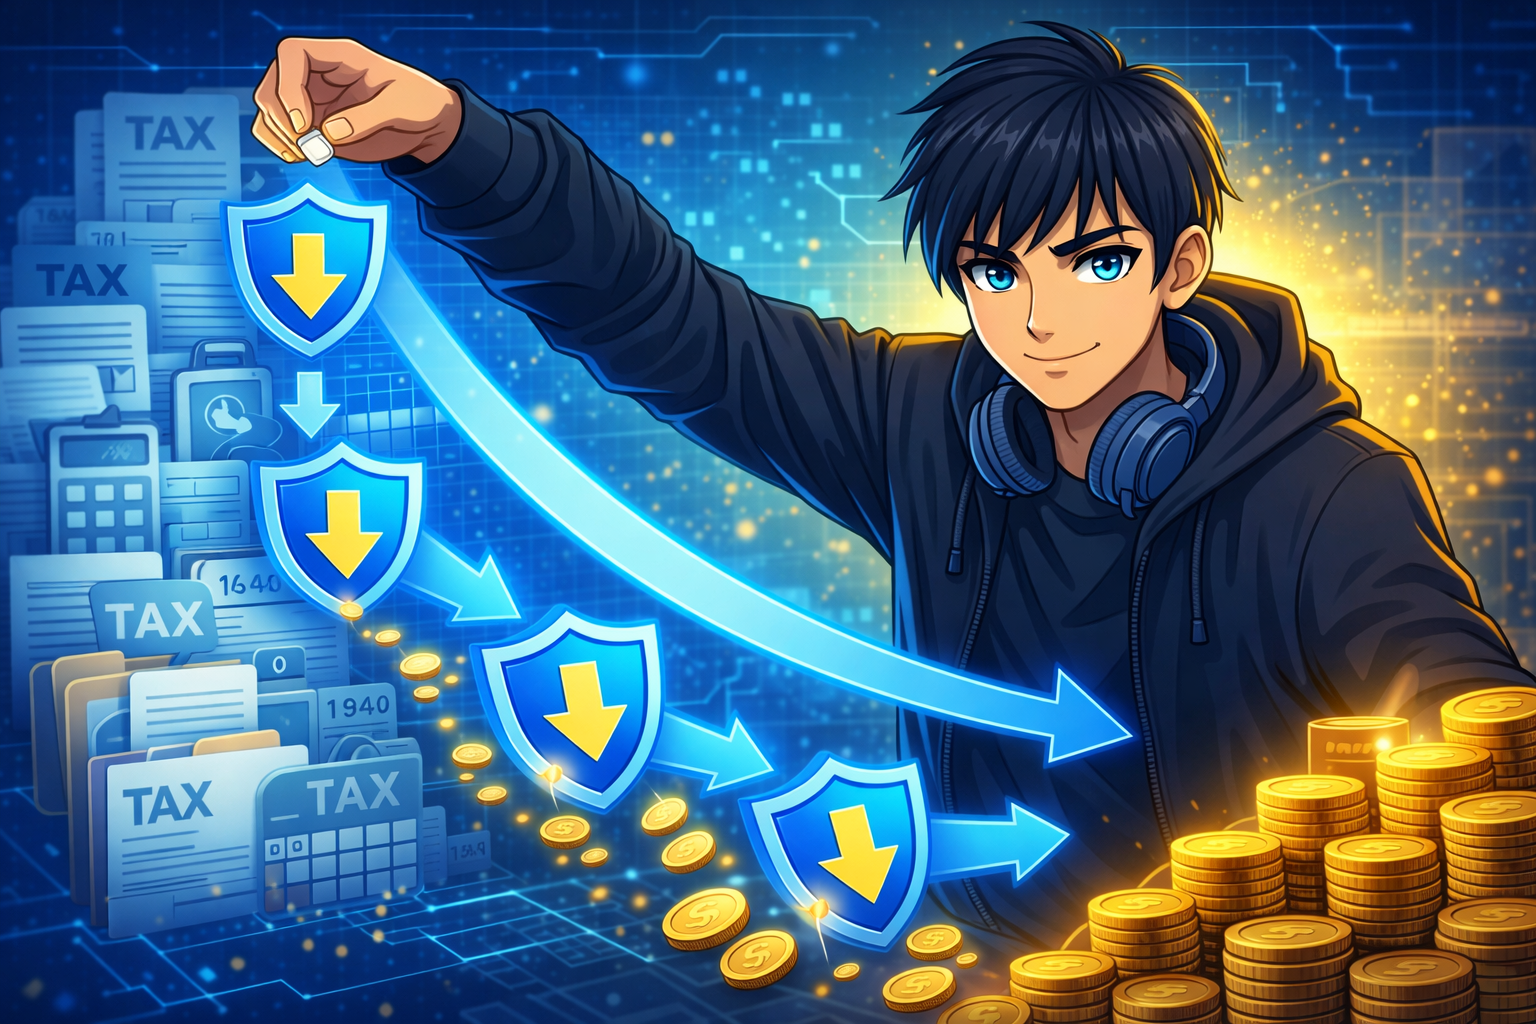
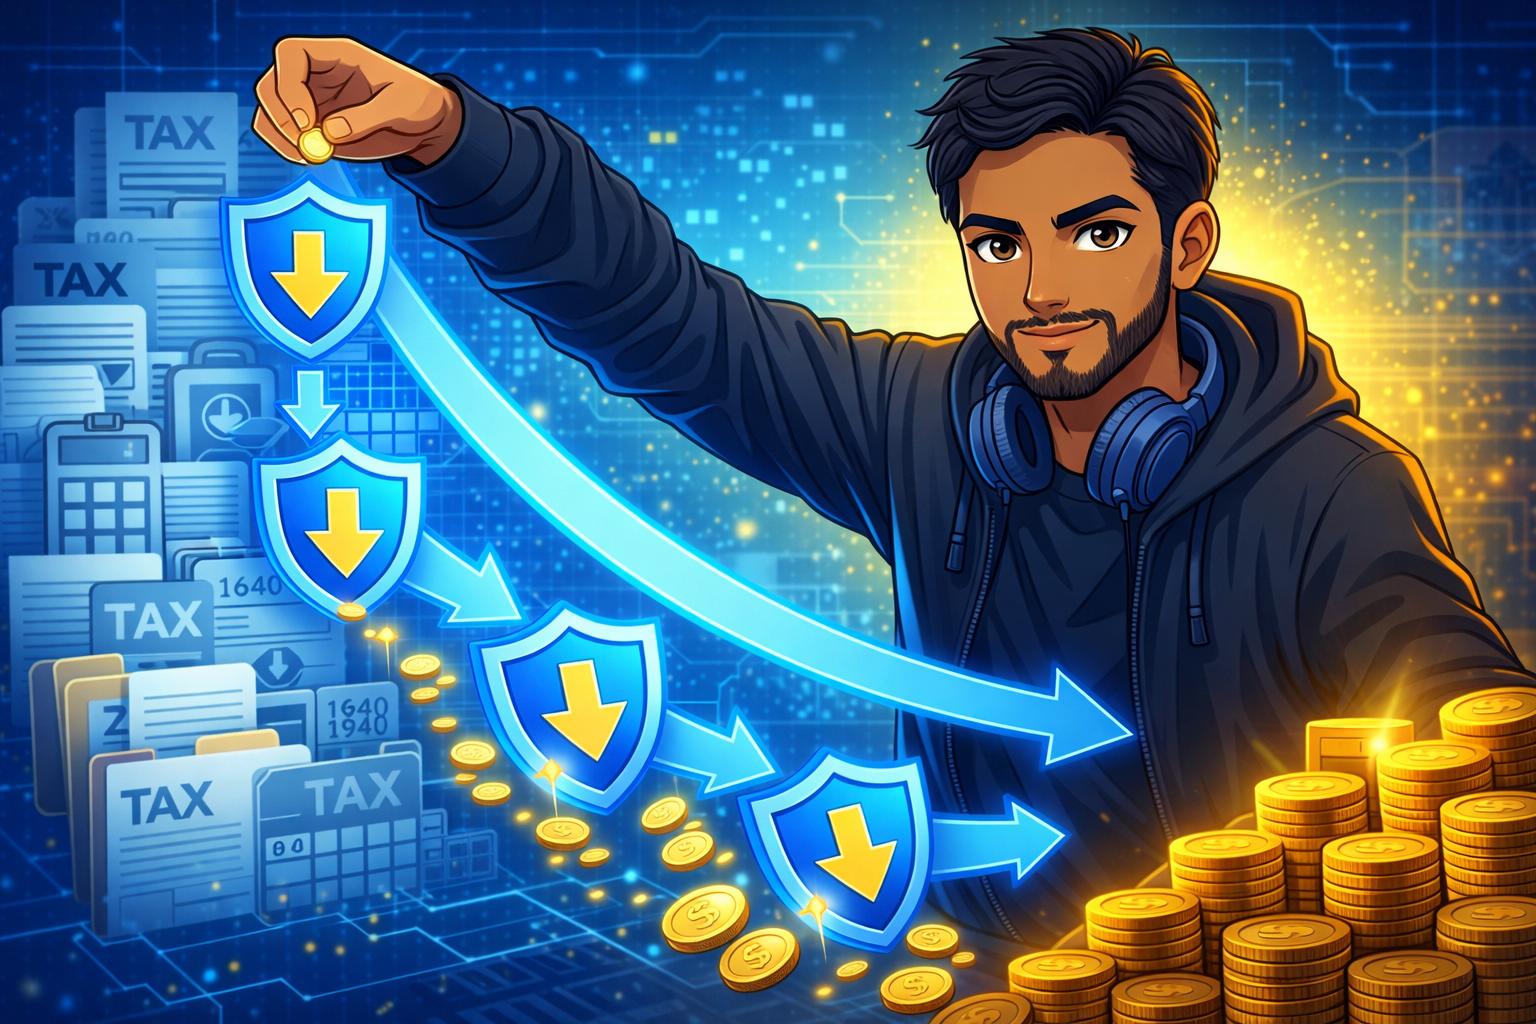
Research Center: Implemented Tax Expense Reduction

diff --git a/mobile/src/screens/FinancialStatementsScreen.tsx b/mobile/src/screens/FinancialStatementsScreen.tsx
@@ -7,7 +7,7 @@ import { getCurrentBalance } from '../store/slices/balanceSlice';
 import { useFetchFinanceTemplatesQuery, useFetchUserFinanceTiersQuery } from '../store/api/userFinanceApi';
 import { useGetRentalHousingIncomeQuery } from '../store/api/rentalHousingApi';
 import { useFetchBalanceQuery } from '../store/api/balanceApi';
-import { useGetUserFeaturesQuery } from '../store/api/researchFeaturesApi';
+import { useGetUserFeaturesQuery, useGetExpenseModifiersQuery } from '../store/api/researchFeaturesApi';
 import { useTrackFinancialStatementViewMutation } from '../store/api/userGuideApi';
 import { useTheme } from '../context/ThemeContext';
 import { useThemeColors } from '../hooks/useThemeColors';
@@ -42,20 +42,30 @@ export function FinancialStatementsScreen({ onClose }: Props): React.JSX.Element
   const { data: templatesData } = useFetchFinanceTemplatesQuery();
   const { data: userTiersData } = useFetchUserFinanceTiersQuery();
   const { data: rentalHousingData, error: rentalHousingError, isLoading: rentalHousingLoading } = useGetRentalHousingIncomeQuery();
-  const { data: balanceData } = useFetchBalanceQuery();
+  const { data: balanceData } = useFetchBalanceQuery(undefined, { refetchOnFocus: true });
+  const { data: expenseModifiers } = useGetExpenseModifiersQuery(undefined, { refetchOnFocus: true });
   const { data: cashFlowFeatures } = useGetUserFeaturesQuery('cash-flow');
   const currentCash = useAppSelector(getCurrentBalance);
   const ratePerSecondFromState = useAppSelector(state => state.balance.ratePerSecond);
   // Use balanceData from query if available (fresh data), otherwise fall back to Redux state
   const ratePerSecond = balanceData?.ratePerSecond ?? ratePerSecondFromState;
-  // Total insurance expense reduction from unlocked research (must match server researchFeatureUtils INSURANCE_REDUCTION_FEATURES)
+  // Expense reductions: prefer dedicated expense-modifiers API (single source of truth). Fall back to balance, then research features.
   const insuranceReductionTotal = useMemo(() => {
+    if (typeof expenseModifiers?.insuranceReduction === 'number') return expenseModifiers.insuranceReduction;
+    if (typeof balanceData?.insuranceReduction === 'number') return balanceData.insuranceReduction;
     if (!cashFlowFeatures) return 0;
     let total = 0;
     if (cashFlowFeatures.some((f: any) => (f.id === 'reduce-insurance-01') && f.isUnlocked)) total += 0.01;
     if (cashFlowFeatures.some((f: any) => (f.id === 'reduce-insurance-02') && f.isUnlocked)) total += 0.02;
     return total;
-  }, [cashFlowFeatures]);
+  }, [expenseModifiers?.insuranceReduction, balanceData?.insuranceReduction, cashFlowFeatures]);
+  const taxReductionTotal = useMemo(() => {
+    if (typeof expenseModifiers?.taxReduction === 'number') return expenseModifiers.taxReduction;
+    if (typeof balanceData?.taxReduction === 'number') return balanceData.taxReduction;
+    if (!cashFlowFeatures) return 0;
+    if (cashFlowFeatures.some((f: any) => (f.id === 'reduce-tax-expense-02' || f.id === 'reduce-expenses') && f.isUnlocked)) return 0.02;
+    return 0;
+  }, [expenseModifiers?.taxReduction, balanceData?.taxReduction, cashFlowFeatures]);
   const { themeMode } = useTheme();
   const colors = useThemeColors();
   
@@ -95,20 +105,32 @@ export function FinancialStatementsScreen({ onClose }: Props): React.JSX.Element
       const insuranceBase = baseIncomeStatement['Insurance'] ?? -0.50;
       effectiveIncomeStatement['Insurance'] = insuranceBase + insuranceReductionTotal;
     }
+    // Tax/Taxes: apply unlocked reduction research (reduce-tax-expense-02 = $0.02). Match template key case-insensitively.
+    const taxKey = Object.keys(baseIncomeStatement).find(
+      k => k.trim().toLowerCase() === 'taxes' || k.trim().toLowerCase() === 'tax'
+    ) ?? null;
+    const hasTaxInTemplate = taxKey !== null;
+    if (hasTaxInTemplate && taxKey) {
+      const taxBase = baseIncomeStatement[taxKey] ?? -0.60;
+      effectiveIncomeStatement[taxKey] = taxBase + taxReductionTotal;
+    }
     
     const incomeStatementEntries = Object.entries(effectiveIncomeStatement);
     
-    // Gross Income: subtract insurance reduction from display when template has Insurance,
-    // so we don't double-count (savings shown as reduced expense). If template lacks Insurance,
-    // show full incomeRateBonus.
-    const effectiveIncomeRateBonus = hasInsuranceInTemplate && insuranceReductionTotal > 0
-      ? Math.max(0, incomeRateBonus - insuranceReductionTotal)
-      : incomeRateBonus;
+    // Gross Income: subtract insurance and tax reduction from display when template has those lines,
+    // so we don't double-count (savings shown as reduced expense). If template lacks them, show full incomeRateBonus.
+    let effectiveIncomeRateBonus = incomeRateBonus;
+    if (hasInsuranceInTemplate && insuranceReductionTotal > 0) {
+      effectiveIncomeRateBonus = Math.max(0, effectiveIncomeRateBonus - insuranceReductionTotal);
+    }
+    if (taxReductionTotal > 0) {
+      effectiveIncomeRateBonus = Math.max(0, effectiveIncomeRateBonus - taxReductionTotal);
+    }
     const baseGrossIncome = 12.00;
     const grossIncome = baseGrossIncome + effectiveIncomeRateBonus;
     
     // Calculate expenses (negative values only, excluding totals)
-    const expenseEntries = incomeStatementEntries.filter(([k, v]) => {
+    const rawExpenseEntries = incomeStatementEntries.filter(([k, v]) => {
       const num = Number(v);
       const keyLower = k.toLowerCase().trim();
       if (k === 'Gross Income' || k === 'Gross income' || k === 'gross income' ||
@@ -118,6 +140,14 @@ export function FinancialStatementsScreen({ onClose }: Props): React.JSX.Element
         return false;
       }
       return num < 0;
+    });
+    // Apply tax reduction to any expense line whose label contains "tax" (bulletproof: no dependency on template key)
+    const expenseEntries = rawExpenseEntries.map(([k, v]) => {
+      const num = Number(v);
+      if (num < 0 && /tax/.test(String(k).trim().toLowerCase())) {
+        return [k, num + taxReductionTotal] as [string, number];
+      }
+      return [k, v] as [string, number];
     });
     
     const totalExpenses = expenseEntries.reduce((sum, [, v]) => {
@@ -143,7 +173,7 @@ export function FinancialStatementsScreen({ onClose }: Props): React.JSX.Element
       passiveIncome,
       netCashFlow
     };
-  }, [merged, incomeRateBonus, insuranceReductionTotal, rentalHousingData?.totalIncomePerSecond]);
+  }, [merged, incomeRateBonus, insuranceReductionTotal, taxReductionTotal, rentalHousingData?.totalIncomePerSecond]);
 
   const getStyles = () => ({
     container: {

diff --git a/mobile/src/store/api/researchFeaturesApi.ts b/mobile/src/store/api/researchFeaturesApi.ts
@@ -44,8 +44,12 @@ export const researchFeaturesApi = createApi({
       return headers;
     },
   }),
-  tagTypes: ['ResearchFeature', 'ResearchFeatures'],
+  tagTypes: ['ResearchFeature', 'ResearchFeatures', 'ExpenseModifiers'],
   endpoints: (builder) => ({
+    getExpenseModifiers: builder.query<{ insuranceReduction: number; taxReduction: number }, void>({
+      query: () => '/expense-modifiers',
+      providesTags: ['ExpenseModifiers'],
+    }),
     getFeatureStatus: builder.query<ResearchFeatureStatus, string>({
       query: (featureId) => `/feature-status/${featureId}`,
       transformResponse: (response: { success: boolean; data: ResearchFeatureStatus }) => response.data,
@@ -93,15 +97,17 @@ export const researchFeaturesApi = createApi({
       }),
       transformResponse: (response: { success: boolean; data: CompleteResearchResponse }) => response.data,
       invalidatesTags: (result, error, { categoryId }) => [
-        { type: 'ResearchFeatures', id: categoryId }
+        { type: 'ResearchFeatures', id: categoryId },
+        ...(categoryId === 'cash-flow' ? [{ type: 'ExpenseModifiers' as const }] : [])
       ],
       async onQueryStarted(arg, { dispatch, queryFulfilled }) {
         try {
           await queryFulfilled;
           // Invalidate UserTaskProgress to update task guide when research completes
-          // This ensures tasks like unlock-antivirus update immediately when feature is unlocked
           dispatch(userGuideApi.util.invalidateTags(['UserTaskProgress']));
-          
+          if (arg.categoryId === 'cash-flow') {
+            dispatch(researchFeaturesApi.util.invalidateTags(['ExpenseModifiers']));
+          }
           // If rental profit research completed (spec 18), invalidate balance and rental housing income cache
           if (arg.categoryId === 'investments' && (arg.featureId === 'rental-profit-01' || arg.featureId === 'rental-profit-015')) {
             const { balanceApi } = await import('./balanceApi');
@@ -111,7 +117,7 @@ export const researchFeaturesApi = createApi({
           }
           
           // If cash-flow income/insurance research completed (spec 18), invalidate balance cache
-          const cashFlowSyncIds = ['increase-income-01', 'increase-income-02', 'increase-income-025', 'increase-income-03', 'reduce-insurance-01', 'reduce-insurance-02', 'reduce-expenses'];
+          const cashFlowSyncIds = ['increase-income-01', 'increase-income-02', 'increase-income-025', 'increase-income-03', 'reduce-insurance-01', 'reduce-insurance-02', 'reduce-tax-expense-02', 'reduce-expenses'];
           if (arg.categoryId === 'cash-flow' && cashFlowSyncIds.includes(arg.featureId)) {
             const { balanceApi } = await import('./balanceApi');
             dispatch(balanceApi.util.invalidateTags(['Balance']));
@@ -152,7 +158,7 @@ export const researchFeaturesApi = createApi({
           }
           
           // If cash-flow income/insurance research was speeded up (spec 18), invalidate balance cache
-          const cashFlowSyncIds = ['increase-income-01', 'increase-income-02', 'increase-income-025', 'increase-income-03', 'reduce-insurance-01', 'reduce-insurance-02', 'reduce-expenses'];
+          const cashFlowSyncIds = ['increase-income-01', 'increase-income-02', 'increase-income-025', 'increase-income-03', 'reduce-insurance-01', 'reduce-insurance-02', 'reduce-tax-expense-02'];
           if (arg.categoryId === 'cash-flow' && cashFlowSyncIds.includes(arg.featureId)) {
             dispatch(balanceApi.util.invalidateTags(['Balance']));
           }
@@ -161,7 +167,8 @@ export const researchFeaturesApi = createApi({
         }
       },
       invalidatesTags: (result, error, { categoryId }) => [
-        { type: 'ResearchFeatures', id: categoryId }
+        { type: 'ResearchFeatures', id: categoryId },
+        ...(categoryId === 'cash-flow' ? [{ type: 'ExpenseModifiers' as const }] : [])
       ],
     }),
   }),
@@ -171,6 +178,7 @@ export const {
   useGetFeatureStatusQuery, 
   useGetFeaturesQuery,
   useGetUserFeaturesQuery,
+  useGetExpenseModifiersQuery,
   useStartResearchMutation, 
   useCompleteResearchMutation,
   useSpeedupFeatureResearchMutation

diff --git a/server/src/routes/research.ts b/server/src/routes/research.ts
@@ -16,10 +16,10 @@ const researchCompletionAttempts = new Map<string, { count: number; resetAt: num
 const RATE_LIMIT_WINDOW = 60000;
 const MAX_RESEARCH_COMPLETION_ATTEMPTS = 10;
 
-/** Cash-flow feature IDs that affect base rate or insurance (spec 18). Triggers sync on completion/speedup. */
+/** Cash-flow feature IDs that affect base rate, insurance, or tax (spec 18). Triggers sync on completion/speedup. */
 const CASH_FLOW_SYNC_FEATURE_IDS = new Set([
   'increase-income-01', 'increase-income-02', 'increase-income-025', 'increase-income-03',
-  'reduce-insurance-01', 'reduce-insurance-02', 'reduce-expenses'
+  'reduce-insurance-01', 'reduce-insurance-02', 'reduce-tax-expense-02'
 ]);
 
 /** Investments feature IDs that affect rental income (spec 18). */
@@ -252,6 +252,22 @@ router.post('/fix-user-research', auth, async (req: Request, res: Response): Pro
 
 // NEW ENDPOINTS FOR INDIVIDUAL FEATURE MANAGEMENT
 // These use the new UserResearchFeature collection and don't interfere with category unlocking
+
+// Expense modifiers for Financial Statements (single source of truth; same logic as balance rate)
+router.get('/expense-modifiers', auth, async (req: Request, res: Response) => {
+  try {
+    const userId = String((req as any).user._id);
+    const { getInsuranceReductionBonus, getTaxReductionBonus } = await import('../utils/researchFeatureUtils');
+    const [insuranceReduction, taxReduction] = await Promise.all([
+      getInsuranceReductionBonus(userId),
+      getTaxReductionBonus(userId)
+    ]);
+    res.json({ insuranceReduction, taxReduction });
+  } catch (error) {
+    console.error('Error fetching expense modifiers:', error);
+    res.status(500).json({ insuranceReduction: 0, taxReduction: 0 });
+  }
+});
 
 // Get user's individual feature status for a category
 router.get('/user-features/:categoryId', auth, async (req: Request, res: Response) => {

diff --git a/server/src/services/ResearchFeatureService.ts b/server/src/services/ResearchFeatureService.ts
@@ -348,6 +348,9 @@ export class ResearchFeatureService {
         if (categoryId === 'cash-flow' && (featureId === 'increase-income-01' || featureId === 'increase-income-02' || featureId === 'increase-income-025' || featureId === 'increase-income-03')) {
           console.log(`[AUDIT] User ${userId} unlocked ${featureId} at ${unlockedAt.toISOString()}`);
         }
+        if (categoryId === 'cash-flow' && featureId === 'reduce-tax-expense-02') {
+          console.log(`[AUDIT] User ${userId} unlocked Reduce Tax Expense $0.02 at ${unlockedAt.toISOString()}`);
+        }
 
         if (categoryId === 'investments' && (featureId === 'rental-profit-01' || featureId === 'rental-profit-015')) {
           console.log(`[AUDIT] User ${userId} unlocked ${featureId} at ${unlockedAt.toISOString()}`);
@@ -398,9 +401,13 @@ export class ResearchFeatureService {
       .select('featureId isUnlocked unlockedAt isResearching researchStartedAt researchCompletesAt researchTimeHours')
       .lean();
 
-      // Merge base features with user progress from UserResearchFeature collection
+      // Merge base features with user progress from UserResearchFeature collection.
+      // Legacy: treat completed 'reduce-expenses' as unlocked for 'reduce-tax-expense-02'.
       const featuresWithStatus = baseFeatures.map(feature => {
-        const userFeature = userFeatures.find(uf => uf.featureId === feature.id);
+        const userFeature = userFeatures.find(uf =>
+          uf.featureId === feature.id ||
+          (feature.id === 'reduce-tax-expense-02' && uf.featureId === 'reduce-expenses')
+        );
 
         const userResearchTimeHours = userFeature?.researchTimeHours;
         const validUserResearchTime = ResearchFeatureService.isValidResearchTimeHours(userResearchTimeHours) 

diff --git a/server/src/utils/researchFeatureUtils.ts b/server/src/utils/researchFeatureUtils.ts
@@ -14,6 +14,12 @@ const INSURANCE_REDUCTION_FEATURES: { featureId: string; value: number }[] = [
   { featureId: 'reduce-insurance-02', value: 0.02 }
 ];
 
+/** Cash-flow feature IDs that reduce tax expense (spec 18). Includes legacy 'reduce-expenses' for backwards compatibility. */
+const TAX_REDUCTION_FEATURES: { featureId: string; value: number }[] = [
+  { featureId: 'reduce-tax-expense-02', value: 0.02 },
+  { featureId: 'reduce-expenses', value: 0.02 }
+];
+
 /** Investments feature IDs that add rental profit per room (spec 18). */
 const RENTAL_PROFIT_FEATURES: { featureId: string; value: number }[] = [
   { featureId: 'rental-profit-01', value: 0.01 },
@@ -40,6 +46,22 @@ export async function getInsuranceReductionBonus(userId: string): Promise<number
   for (const { featureId, value } of INSURANCE_REDUCTION_FEATURES) {
     const unlocked = await isResearchFeatureUnlocked(userId, 'cash-flow', featureId);
     if (unlocked) total += value;
+  }
+  return total;
+}
+
+/**
+ * Total tax expense reduction from all unlocked cash-flow features (spec 18).
+ * Only one of reduce-tax-expense-02 or legacy reduce-expenses should be unlocked; both grant $0.02.
+ */
+export async function getTaxReductionBonus(userId: string): Promise<number> {
+  let total = 0;
+  for (const { featureId, value } of TAX_REDUCTION_FEATURES) {
+    const unlocked = await isResearchFeatureUnlocked(userId, 'cash-flow', featureId);
+    if (unlocked) {
+      total += value;
+      break; // Only one tax reduction feature (current or legacy) per user
+    }
   }
   return total;
 }

diff --git a/server/src/services/RentalHousingSyncService.ts b/server/src/services/RentalHousingSyncService.ts
@@ -1,6 +1,6 @@
 import { IUser } from '../models/User';
 import { RentalHousingIncomeService } from './RentalHousingIncomeService';
-import { getBaseIncomeRateBonus, getInsuranceReductionBonus, getResearchFeatureUnlockTime } from '../utils/researchFeatureUtils';
+import { getBaseIncomeRateBonus, getInsuranceReductionBonus, getTaxReductionBonus, getResearchFeatureUnlockTime } from '../utils/researchFeatureUtils';
 
 export interface RentalHousingSyncResult {
   needsSync: boolean;
@@ -175,10 +175,11 @@ export class RentalHousingSyncService {
     await this.ensureLegacyRentalLevels(user);
     
     // CRITICAL: Always calculate and update ratePerSecond, even if no rental properties exist
-    // Base rate is $1.00 + income rate bonus (sum of increase-income-* per spec 18) + insurance reduction (sum of reduce-insurance-*), plus passive income
+    // Base rate is $1.00 + income rate bonus (sum of increase-income-* per spec 18) + insurance reduction (sum of reduce-insurance-*) + tax reduction (reduce-tax-expense-02), plus passive income
     const incomeBonus = await getBaseIncomeRateBonus(String(user._id));
     const insuranceBonus = await getInsuranceReductionBonus(String(user._id));
-    const baseRate = 1.0 + incomeBonus + insuranceBonus;
+    const taxBonus = await getTaxReductionBonus(String(user._id));
+    const baseRate = 1.0 + incomeBonus + insuranceBonus + taxBonus;
     
     if (baseRate < 0) {
       console.error('[INCOME RATE] Invalid baseRate calculated:', baseRate);

diff --git a/server/server.ts b/server/server.ts
@@ -287,6 +287,14 @@ app.get('/api/balance', auth, async (req: Request, res: Response) => {
       await user.save();
     }
 
+    // Expense modifiers from research (single source of truth for Financial Statements screen)
+    const { getInsuranceReductionBonus, getTaxReductionBonus } = await import('./src/utils/researchFeatureUtils');
+    const userId = String(user._id);
+    const [insuranceReduction, taxReduction] = await Promise.all([
+      getInsuranceReductionBonus(userId),
+      getTaxReductionBonus(userId)
+    ]);
+
     // Return updated balance (ratePerSecond already includes rental housing income)
     const currentBalance = {
       total: user.balance.total,
@@ -294,7 +302,9 @@ app.get('/api/balance', auth, async (req: Request, res: Response) => {
       lastUpdated: user.balance.lastUpdated,
       fractionalRemainder: user.balance.fractionalRemainder || 0,
       lifetimeHighNetWorth: user.lifetimeHighNetWorth || 0,
-      lifetimeHighUpdated: lifetimeHighUpdated
+      lifetimeHighUpdated: lifetimeHighUpdated,
+      insuranceReduction,
+      taxReduction
     };
 
     res.json(currentBalance);

diff --git a/server/src/config/researchSpec18.ts b/server/src/config/researchSpec18.ts
@@ -187,15 +187,15 @@ export const RESEARCH_SPEC_18: SpecFeatureInput[] = [
   },
   {
     categoryId: 'cash-flow',
-    id: 'reduce-expenses',
-    name: 'Reduce Expenses',
-    description: 'Lower your daily operational costs.',
+    id: 'reduce-tax-expense-02',
+    name: 'Reduce Tax Expense $0.02',
+    description: 'Reduce your tax expense by $0.02 per second.',
     unlockCost: 300000,
     levelRequirement: 15,
     researchTimeHours: 5,
     requiredFeatureRefs: [m({ categoryId: 'cash-flow', featureId: 'reduce-insurance-02' })],
     researchCenterLevelRequirement: 2,
-    effect: { type: 'reduction', value: 0.02, target: 'operational-costs' }
+    effect: { type: 'reduction', value: 0.02, target: 'tax-expense' }
   },
   {
     categoryId: 'hack-ability',

diff --git a/mobile/src/components/research/FeatureCard.tsx b/mobile/src/components/research/FeatureCard.tsx
@@ -65,7 +65,7 @@ const BACKGROUND_IMAGE_MAP: Record<string, ImageSourcePropType> = {
   'increase-income-03': require('../../assets/images/researchCenter/incomeIncrease.png'),
   'reduce-insurance-01': require('../../assets/images/researchCenter/decreaseInsurance.png'),
   'reduce-insurance-02': require('../../assets/images/researchCenter/decreaseInsurance.png'),
-  'reduce-expenses': require('../../assets/images/researchCenter/decreaseInsurance.png'),
+  'reduce-tax-expense-02': require('../../assets/images/researchCenter/taxExpenseReduction.png'),
   'probe': require('../../assets/images/researchCenter/increaseBattalions.png'),
 };
 

diff --git a/mobile/src/store/api/balanceApi.ts b/mobile/src/store/api/balanceApi.ts
@@ -44,6 +44,9 @@ export interface BalanceResponse {
   fractionalRemainder: number;
   lifetimeHighNetWorth?: number;
   lifetimeHighUpdated?: boolean;
+  /** Research-based expense reduction per second (for Financial Statements). Server source of truth. */
+  insuranceReduction?: number;
+  taxReduction?: number;
 }
 
 export const balanceApi = createApi({
